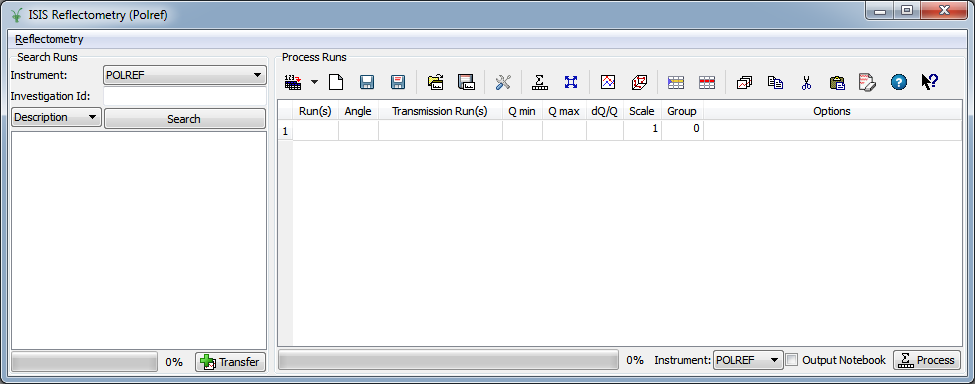
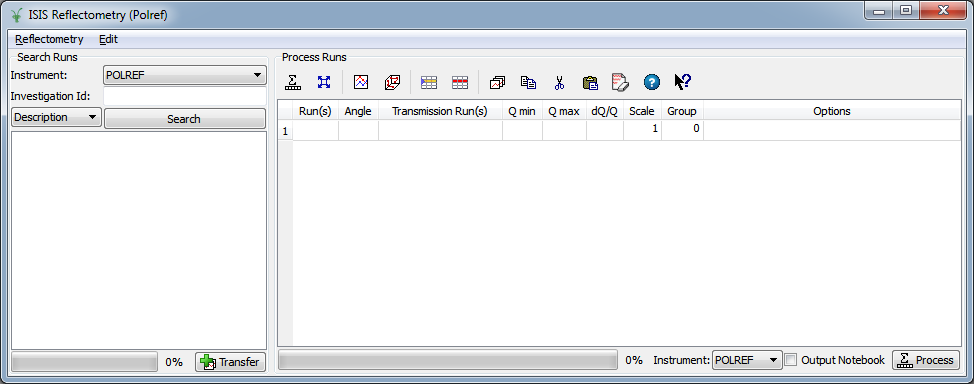
Re #14921 Update documentation and release notes
Also fixed a cppcheck error

diff --git a/MantidQt/CustomInterfaces/src/Reflectometry/QtReflMainView.cpp b/MantidQt/CustomInterfaces/src/Reflectometry/QtReflMainView.cpp
@@ -75,6 +75,7 @@ void QtReflMainView::initLayout() {
 */
 void QtReflMainView::addToMenu(QMenu *menu, ReflCommandBase_uptr command) {
 
+  // cppcheck-suppress unreadVariable
   ReflCommandAdapter *adapter =
       new ReflCommandAdapter(menu, std::move(command));
 }

diff --git a/docs/source/interfaces/ISIS_Reflectometry.rst b/docs/source/interfaces/ISIS_Reflectometry.rst
@@ -100,9 +100,42 @@ Menu bar
 .. interface:: ISIS Reflectometry (Polref)
   :widget: menuBar
 
-The **Reflectometry** menu provides access to the **Slit Calculator**,
-a tool to help calculate the correct geometry for the instruments' slits.
-It's powered by the :ref:`CalculateSlits <algm-CalculateSlits>` algorithm.
+The **Reflectometry** menu provides access to the following functionality:
+
++------------------+----------------------------------------------------------+
+| Action           | Effect                                                   |
++==================+==========================================================+
+| Open Table       | Opens a valid *TableWorkspace* in the `Processing Table`_|
+|                  | for processing.                                          |
++------------------+----------------------------------------------------------+
+| New Table        | Discards the current contents of the `Processing Table`_ |
+|                  | presenting a blank table.                                |
++------------------+----------------------------------------------------------+
+| Save Table       | Saves the current contents of the `Processing Table`_ to |
+|                  | the *TableWorkspace* it came from. If no such workspace  |
+|                  | already exists, a new one can be created.                |
++------------------+----------------------------------------------------------+
+| Save Table As    | Saves the current contents of the `Processing Table`_ to |
+|                  | a new *TableWorkspace*.                                  |
++------------------+----------------------------------------------------------+
+| Import .TBL      | Opens a :ref:`LoadReflTBL <algm-LoadReflTBL>` dialog,    |
+|                  | enabling you to load a ``.tbl`` file into a              |
+|                  | *TableWorkspace*.                                        |
++------------------+----------------------------------------------------------+
+| Export .TBL      | Opens a :ref:`SaveReflTBL <algm-SaveReflTBL>` dialog,    |
+|                  | enabling you to save a *TableWorkspace* to a ``.tbl``    |
+|                  | file.                                                    |
++------------------+----------------------------------------------------------+
+| Options          | Opens the `Options`_                             menu.   |
++------------------+----------------------------------------------------------+
+| Slit Calculator  | Opens the slit calculator: a tool to help calculate the  |
+|                  | correct geometry for the instruments' slits. It's powered|
+|                  | by the :ref:`CalculateSlits <algm-CalculateSlits>`       |
+|                  | algorithm.                                               |
++------------------+----------------------------------------------------------+
+
+The **Edit** menu provides access to the same actions found in the tool bar.
+These are documented in the `Tool Bar`_ section of this document.
 
 Processing Table
 ~~~~~~~~~~~~~~~~
@@ -147,29 +180,6 @@ This table details the behaviour of the actions in the tool bar, from left to ri
 +------------------+----------------------------------------------------------+
 | Action           | Effect                                                   |
 +==================+==========================================================+
-| Open Table       | Opens a valid *TableWorkspace* in the `Processing Table`_|
-|                  | for processing.                                          |
-+------------------+----------------------------------------------------------+
-| New Table        | Discards the current contents of the `Processing Table`_ |
-|                  | presenting a blank table.                                |
-+------------------+----------------------------------------------------------+
-| Save Table       | Saves the current contents of the `Processing Table`_ to |
-|                  | the *TableWorkspace* it came from. If no such workspace  |
-|                  | already exists, a new one can be created.                |
-+------------------+----------------------------------------------------------+
-| Save Table As    | Saves the current contents of the `Processing Table`_ to |
-|                  | a new *TableWorkspace*.                                  |
-+------------------+----------------------------------------------------------+
-| Import .TBL      | Opens a :ref:`LoadReflTBL <algm-LoadReflTBL>` dialog,    |
-|                  | enabling you to load a ``.tbl`` file into a              |
-|                  | *TableWorkspace*.                                        |
-+------------------+----------------------------------------------------------+
-| Export .TBL      | Opens a :ref:`SaveReflTBL <algm-SaveReflTBL>` dialog,    |
-|                  | enabling you to save a *TableWorkspace* to a ``.tbl``    |
-|                  | file.                                                    |
-+------------------+----------------------------------------------------------+
-| Options          | Opens the `Options`_                             menu.   |
-+------------------+----------------------------------------------------------+
 | Process          | Processes the selected runs, or, if no runs are selected,|
 |                  | all of the runs in the table.                            |
 +------------------+----------------------------------------------------------+

diff --git a/docs/source/release/v3.7.0/reflectometry.rst b/docs/source/release/v3.7.0/reflectometry.rst
@@ -24,12 +24,10 @@ ISIS Reflectometry (Polref)
 - Bugfix: When using the ICAT search in the interface, if the wrong user credentials were entered or the login dialog
   was closed before the details had been entered then mantid crashed. This has been fixed.
   `#15410 <https://github.com/mantidproject/mantid/pull/15410>`_
-- Some changes were made to the interface (functional behaviour remains the same). Specifically, options related to
-  the processing table have been moved to the *Process Runs* section. Therefore, there is only one menu left,
-  *Reflectometry*, to open the Slit Calculator. All table options are still accesible from the tool bar.
-  A new progress bar has been added to the *Search Runs* section, it show the progress when
+- Some changes were made to the interface as part of a code refactoring (functional behaviour remains the same). 
+  The only change visible to user is a new progress bar that has been added to the *Search Runs* section. It show the progress when
   transferring runs. The progress bar that existed before will only indicate the progress of processing that is
-  in progress.
+  in progress. `#15670 <https://github.com/mantidproject/mantid/pull/15670>`_
 
 .. figure:: /images/ISISReflectometryPolref_newTableView.png
 
